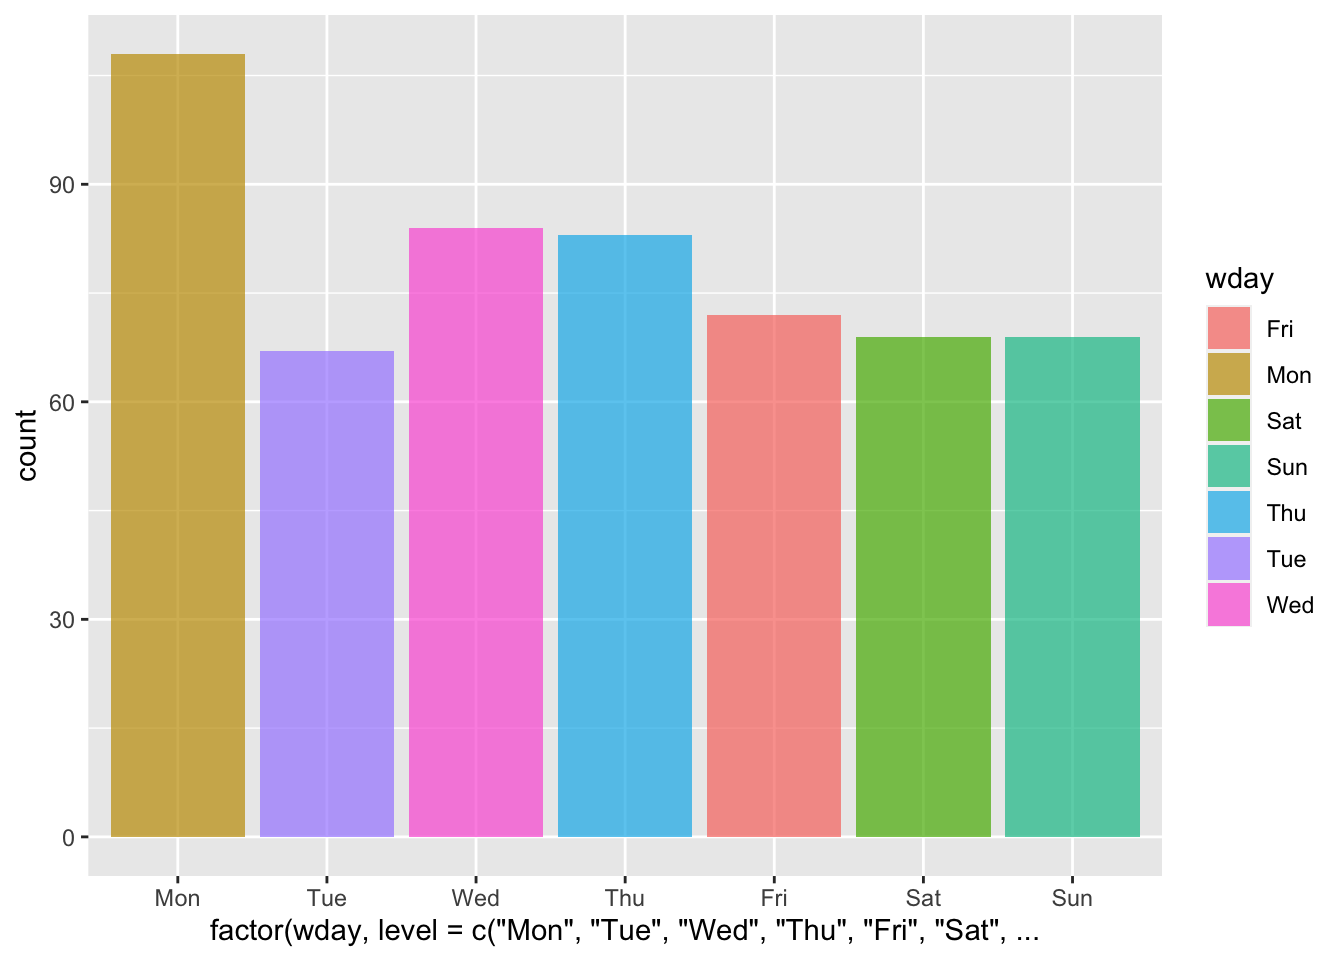
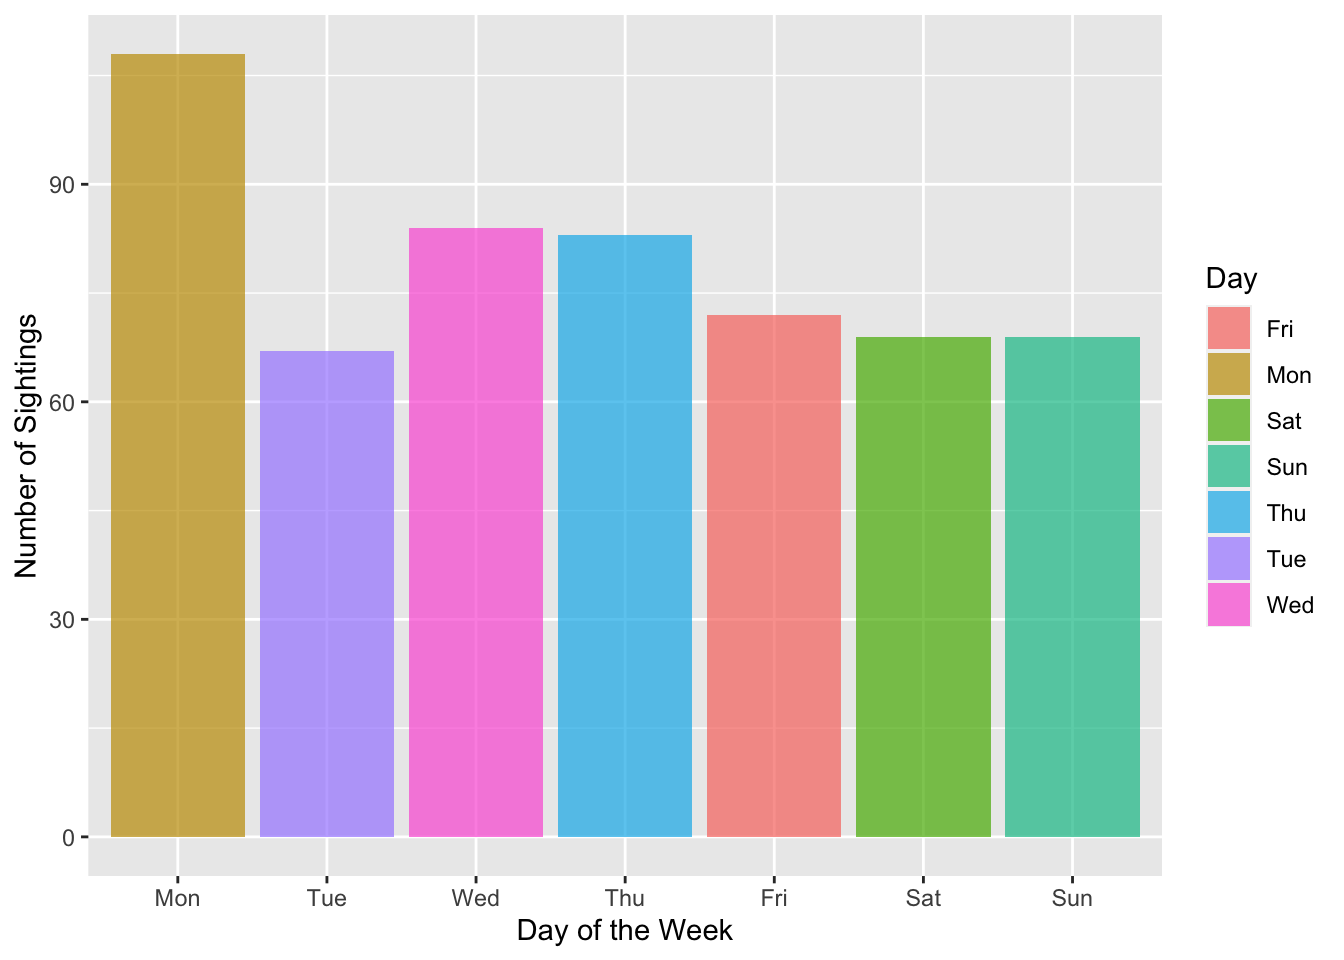
Finished!

diff --git a/docs/p10.html b/docs/p10.html
@@ -308,6 +308,7 @@ href="https://github.com/rfordatascience/tidytuesday/blob/master/data/2023/2023-
 class="uri">https://github.com/rfordatascience/tidytuesday/blob/master/data/2023/2023-03-07/readme.md</a></p>
 </blockquote>
 <pre class="r"><code>library(tidyverse)
+library(maps)
 
 tuesdata &lt;- tidytuesdayR::tt_load(2023, week = 10)</code></pre>
 <pre><code>## 
@@ -330,9 +331,22 @@ Australia:</p>
 <pre><code>## Warning: Removed 83 rows containing missing values (`geom_point()`).</code></pre>
 <p><img src="p10_files/figure-html/location-1.png" width="672" /></p>
 <blockquote>
-<p>This by itself isn’t incredibly intuitive, but I can’t seem to get
-the points to cleanly superimpose over a map of Australia. I’ve checked
-though, and the sightings do span the entirety of the country.</p>
+<p>This by itself isn’t incredibly intuitive. Let’s try to superimpose
+them over a map of Australia</p>
+</blockquote>
+<pre class="r"><code>oz &lt;- world.cities[world.cities$country.etc == &quot;Australia&quot;,]
+
+numbats %&gt;%
+  ggplot(aes(x = decimalLongitude, y = decimalLatitude)) +
+  geom_point(color = &quot;orange&quot;) +
+  geom_point(data = oz, aes(x = long, y = lat)) +
+  labs(x = &quot;Longitude&quot;,
+       y = &quot;Latutude&quot;)</code></pre>
+<pre><code>## Warning: Removed 83 rows containing missing values (`geom_point()`).</code></pre>
+<p><img src="p10_files/figure-html/oz-1.png" width="672" /></p>
+<blockquote>
+<p>Generally sightings seem to appear mostly in the southwesternmost tip
+of the country.</p>
 </blockquote>
 </div>
 <div id="what-time-of-day-do-numbat-sightings-occur"
@@ -385,7 +399,10 @@ numbats_szns &lt;- numbats %&gt;%
 # Visualization
 numbats_szns %&gt;%
   ggplot(aes(x = season, fill = season)) + 
-  geom_histogram(stat = &quot;count&quot;, alpha = 0.7)</code></pre>
+  geom_histogram(stat = &quot;count&quot;, alpha = 0.7) +
+  labs(x = &quot;Season&quot;,
+       y = &quot;Number of Sightings&quot;,
+       fill = &quot;Season&quot;)</code></pre>
 <pre><code>## Warning in geom_histogram(stat = &quot;count&quot;, alpha = 0.7): Ignoring unknown
 ## parameters: `binwidth`, `bins`, and `pad`</code></pre>
 <p><img src="p10_files/figure-html/numbat-seasons-1.png" width="672" /></p>
@@ -403,7 +420,10 @@ class="section level2">
 <pre class="r"><code>numbats %&gt;%
   drop_na(wday) %&gt;%
   ggplot(aes(x = factor(wday, level = c(&quot;Mon&quot;, &quot;Tue&quot;, &quot;Wed&quot;, &quot;Thu&quot;, &quot;Fri&quot;, &quot;Sat&quot;, &quot;Sun&quot;)), fill = wday)) + 
-  geom_histogram(stat = &quot;count&quot;, alpha = 0.7)</code></pre>
+  geom_histogram(stat = &quot;count&quot;, alpha = 0.7) + 
+  labs(x = &quot;Day of the Week&quot;,
+       y = &quot;Number of Sightings&quot;,
+       fill = &quot;Day&quot;)</code></pre>
 <pre><code>## Warning in geom_histogram(stat = &quot;count&quot;, alpha = 0.7): Ignoring unknown
 ## parameters: `binwidth`, `bins`, and `pad`</code></pre>
 <p><img src="p10_files/figure-html/week-1.png" width="672" /></p>
